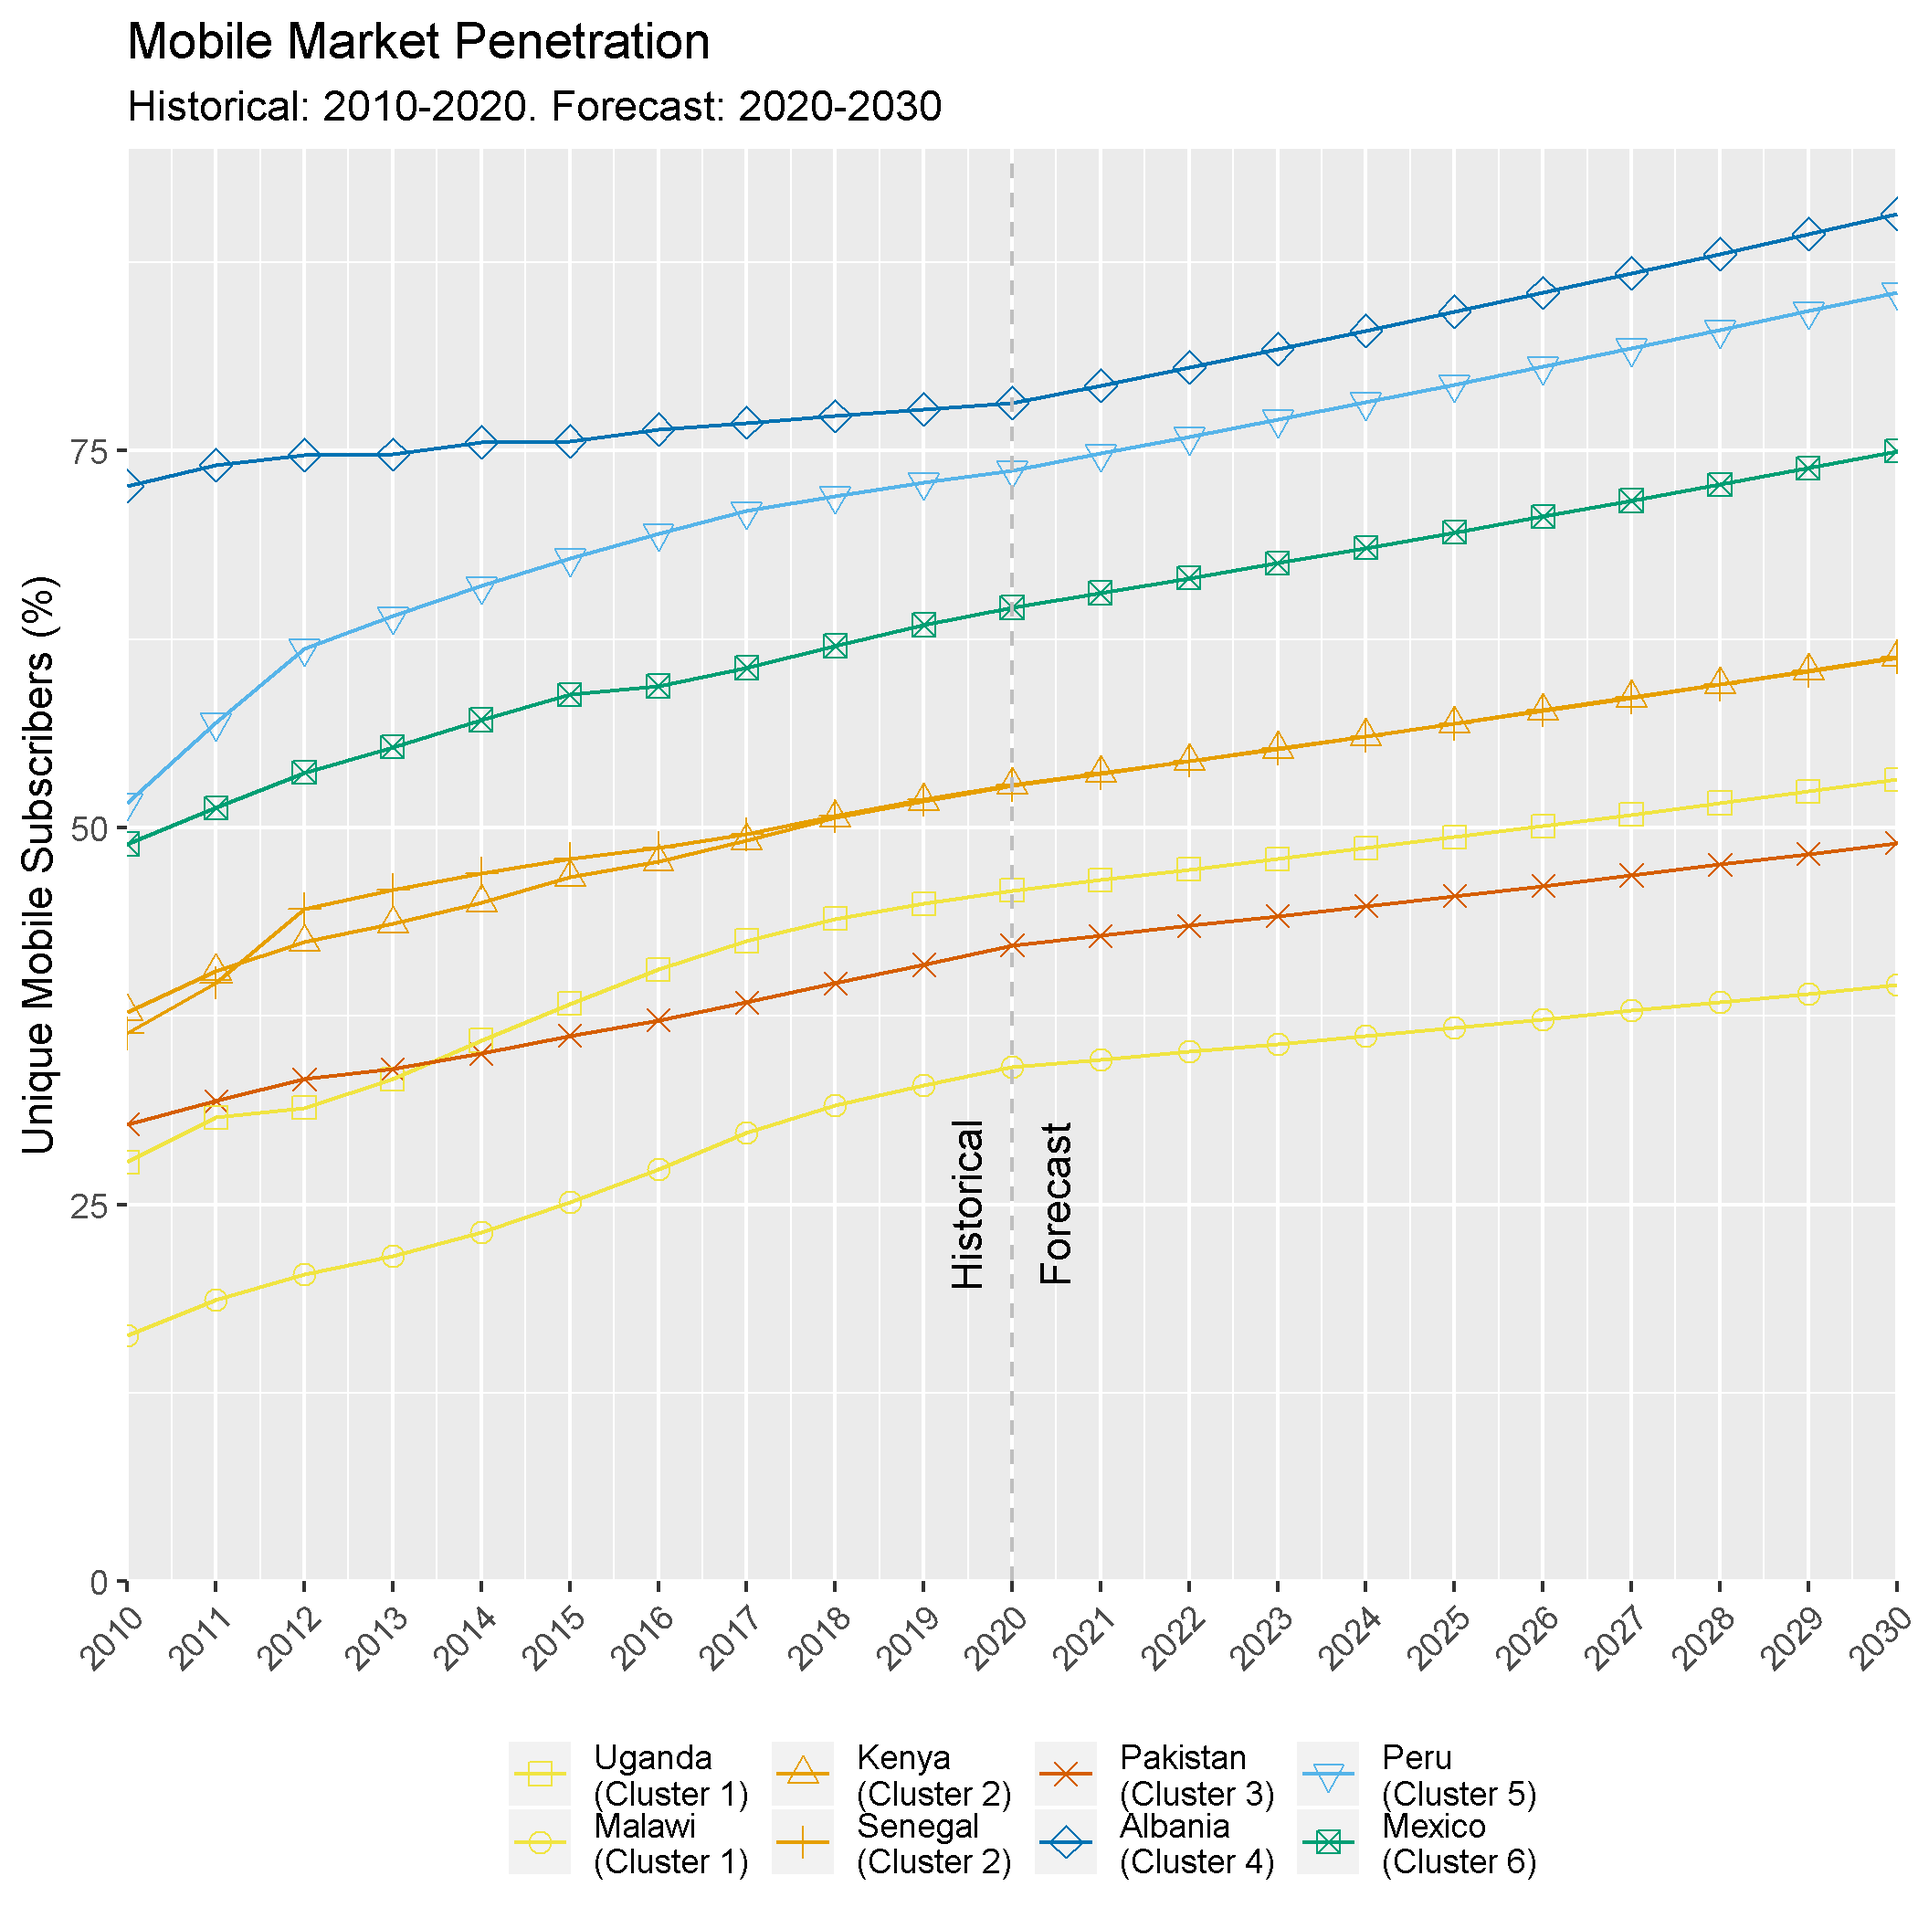
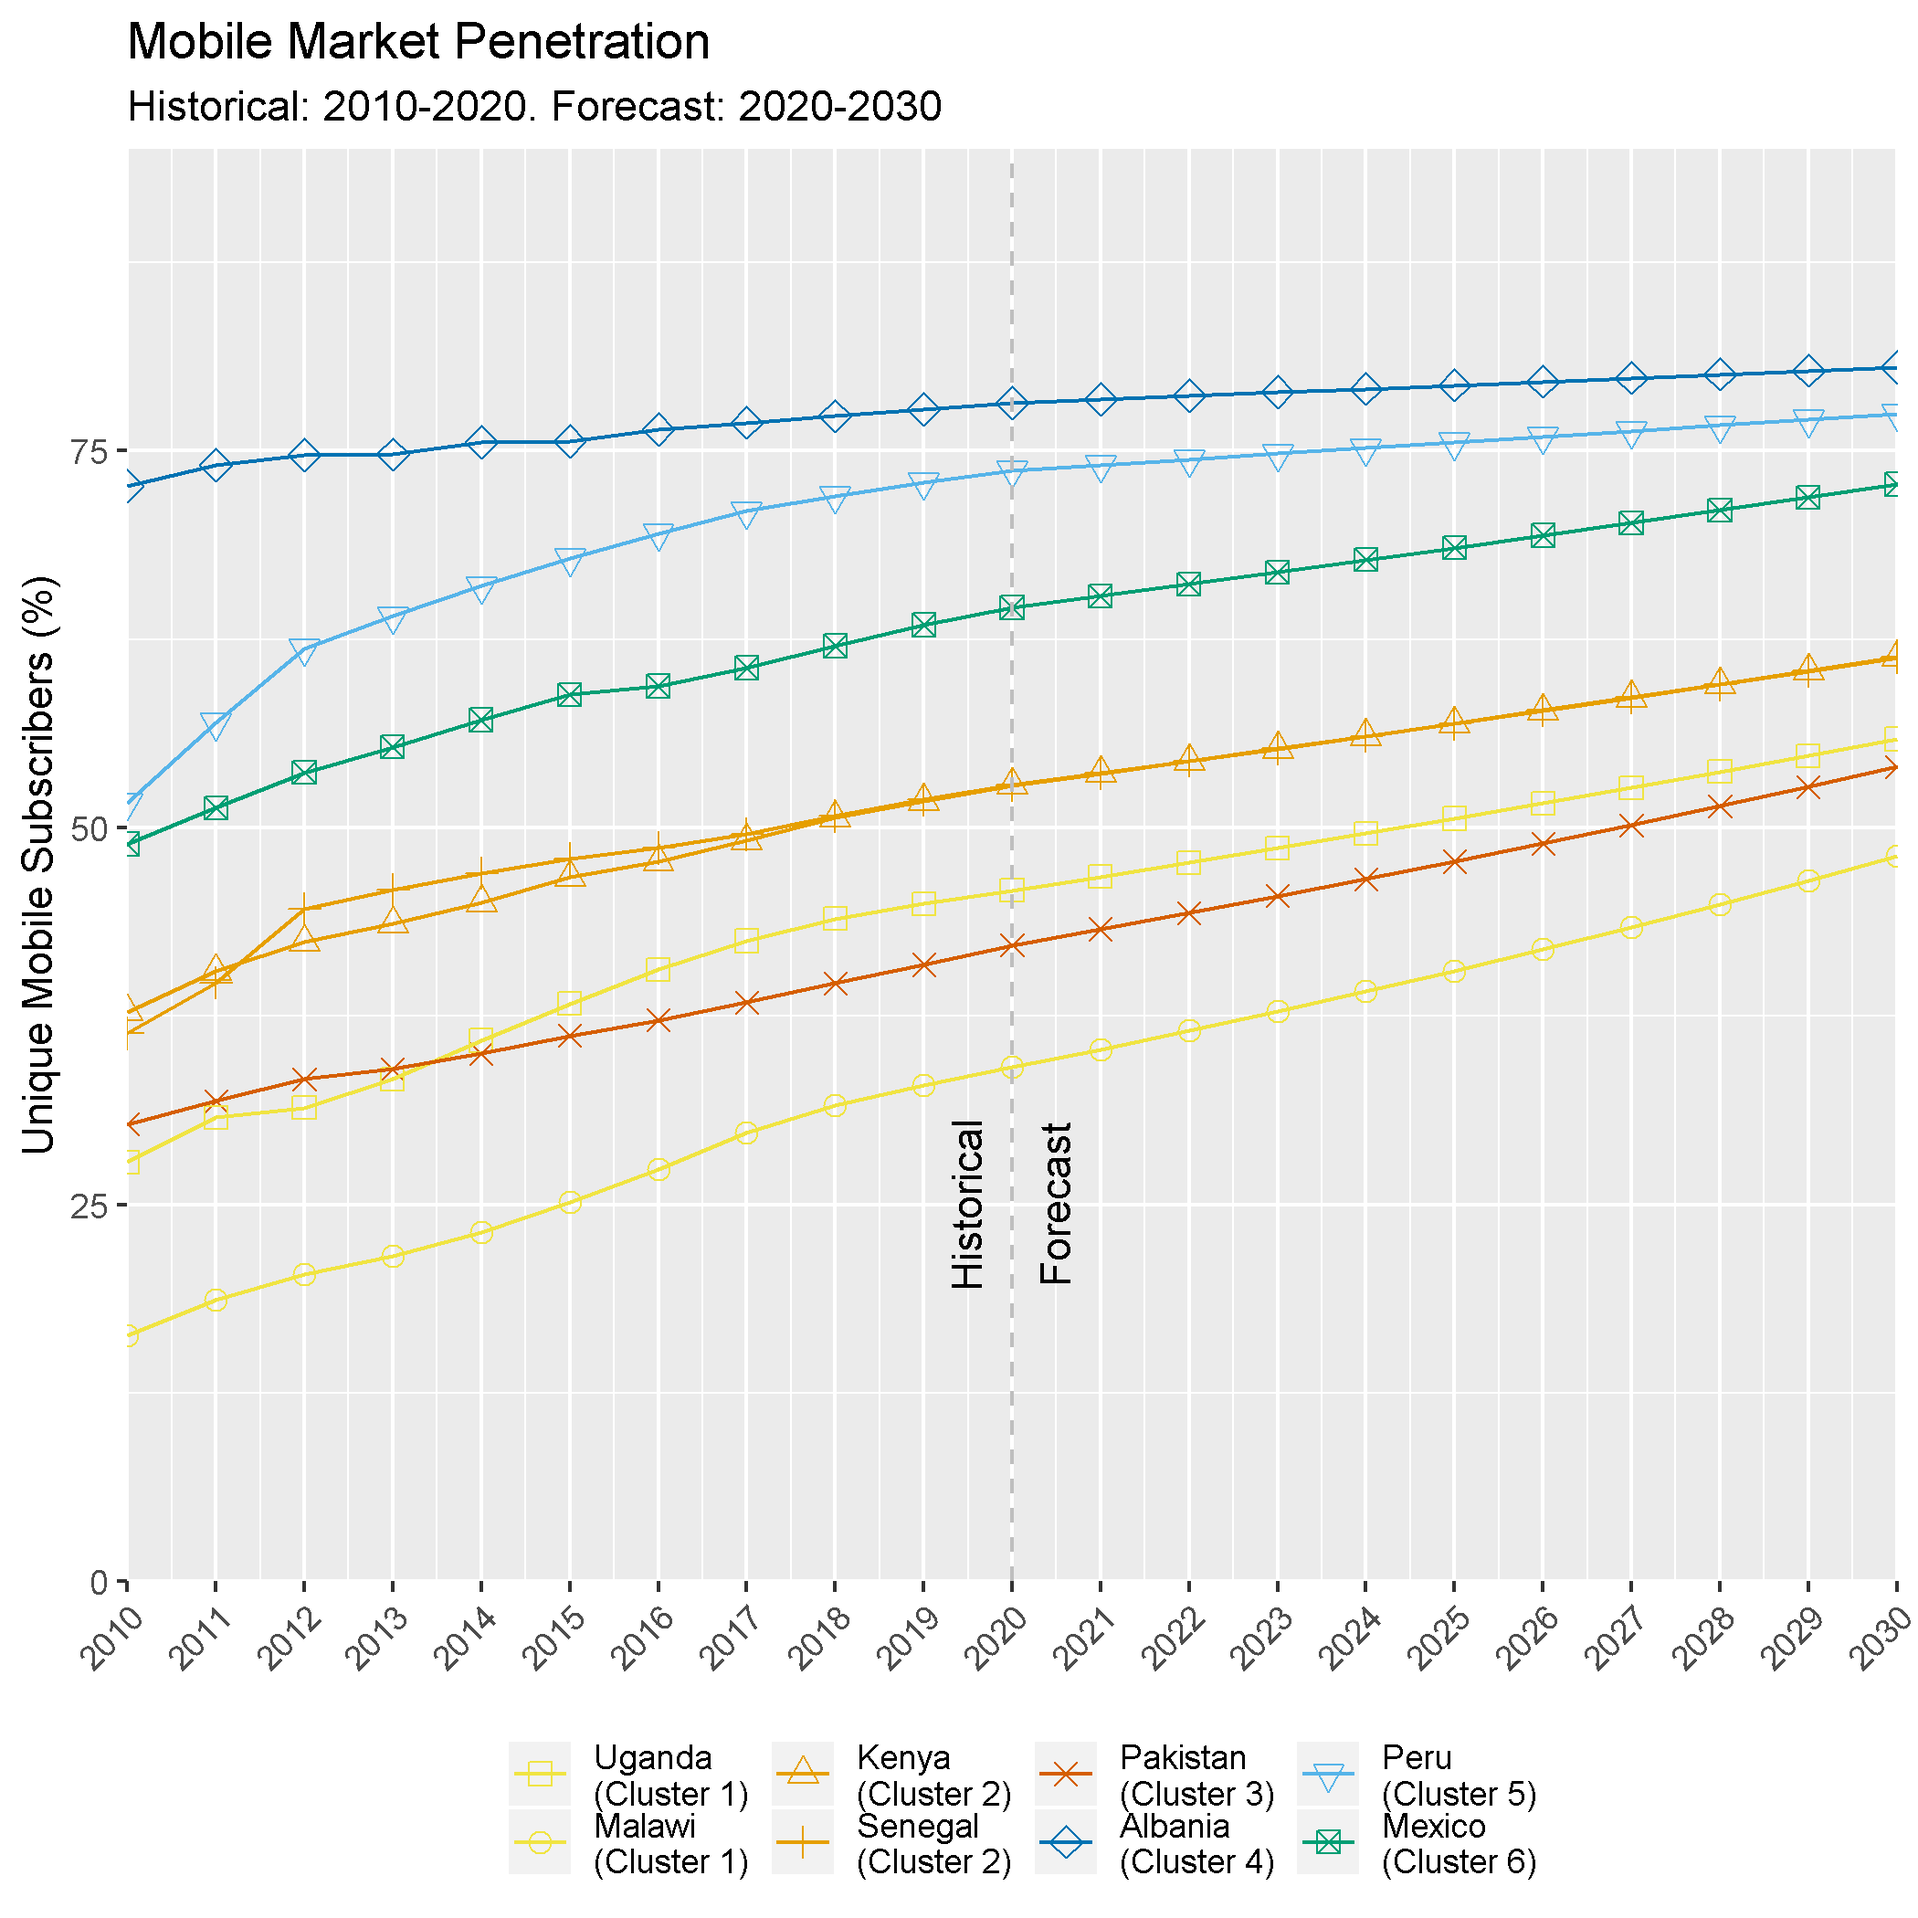
Adapt subscription changes

diff --git a/scripts/preprocess.py b/scripts/preprocess.py
@@ -2052,29 +2052,29 @@ if __name__ == '__main__':
     # countries = find_country_list(['Africa'])
 
     countries = [
+        {'iso3': 'MWI', 'iso2': 'MW', 'regional_level': 2, 'regional_nodes_level': 3,
+            'region': 'SSA', 'pop_density_km2': 500, 'settlement_size': 1000, 'subs_growth': 3.5,
+        },
         {'iso3': 'UGA', 'iso2': 'UG', 'regional_level': 2, 'regional_nodes_level': 2,
-            'region': 'SSA', 'pop_density_km2': 500, 'settlement_size': 1000, 'subs_growth': 1,
-        },
-        {'iso3': 'MWI', 'iso2': 'MW', 'regional_level': 2, 'regional_nodes_level': 2,
-            'region': 'SSA', 'pop_density_km2': 500, 'settlement_size': 1000, 'subs_growth': 1,
-        },
-        {'iso3': 'KEN', 'iso2': 'KE', 'regional_level': 2, 'regional_nodes_level': 1,
-            'region': 'SSA', 'pop_density_km2': 500, 'settlement_size': 1000, 'subs_growth': 1,
+            'region': 'SSA', 'pop_density_km2': 500, 'settlement_size': 1000, 'subs_growth': 2,
         },
         {'iso3': 'SEN', 'iso2': 'SN', 'regional_level': 2, 'regional_nodes_level': 2,
-            'region': 'SSA', 'pop_density_km2': 200, 'settlement_size': 1000, 'subs_growth': 1,
+            'region': 'SSA', 'pop_density_km2': 200, 'settlement_size': 1000, 'subs_growth': 1.5,
+        },
+        {'iso3': 'KEN', 'iso2': 'KE', 'regional_level': 2, 'regional_nodes_level': 1,
+            'region': 'SSA', 'pop_density_km2': 500, 'settlement_size': 1000, 'subs_growth': 1.5,
         },
         {'iso3': 'PAK', 'iso2': 'PK', 'regional_level': 3, 'regional_nodes_level': 2,
-            'region': 'S&SE Asia', 'pop_density_km2': 500, 'settlement_size': 1000, 'subs_growth': 1,
+            'region': 'S&SE Asia', 'pop_density_km2': 500, 'settlement_size': 1000, 'subs_growth': 2.5,
         },
         {'iso3': 'ALB', 'iso2': 'AL', 'regional_level': 2, 'regional_nodes_level': 2,
-            'region': 'Europe', 'pop_density_km2': 500, 'settlement_size': 1000, 'subs_growth': 1,
+            'region': 'Europe', 'pop_density_km2': 500, 'settlement_size': 1000, 'subs_growth': 0.3,
         },
         {'iso3': 'PER', 'iso2': 'PE', 'regional_level': 2, 'regional_nodes_level': 1,
-            'region': 'LAC', 'pop_density_km2': 500, 'settlement_size': 1000, 'subs_growth': 1,
+            'region': 'LAC', 'pop_density_km2': 500, 'settlement_size': 1000, 'subs_growth': 0.5,
         },
-        {'iso3': 'MEX', 'iso2': 'MX', 'regional_level': 1, 'regional_nodes_level': 1,
-            'region': 'LAC', 'pop_density_km2': 500, 'settlement_size': 1000, 'subs_growth': 1,
+        {'iso3': 'MEX', 'iso2': 'MX', 'regional_level': 2, 'regional_nodes_level': 1,
+            'region': 'LAC', 'pop_density_km2': 500, 'settlement_size': 1000, 'subs_growth': 1.2,
         },
     ]
 
